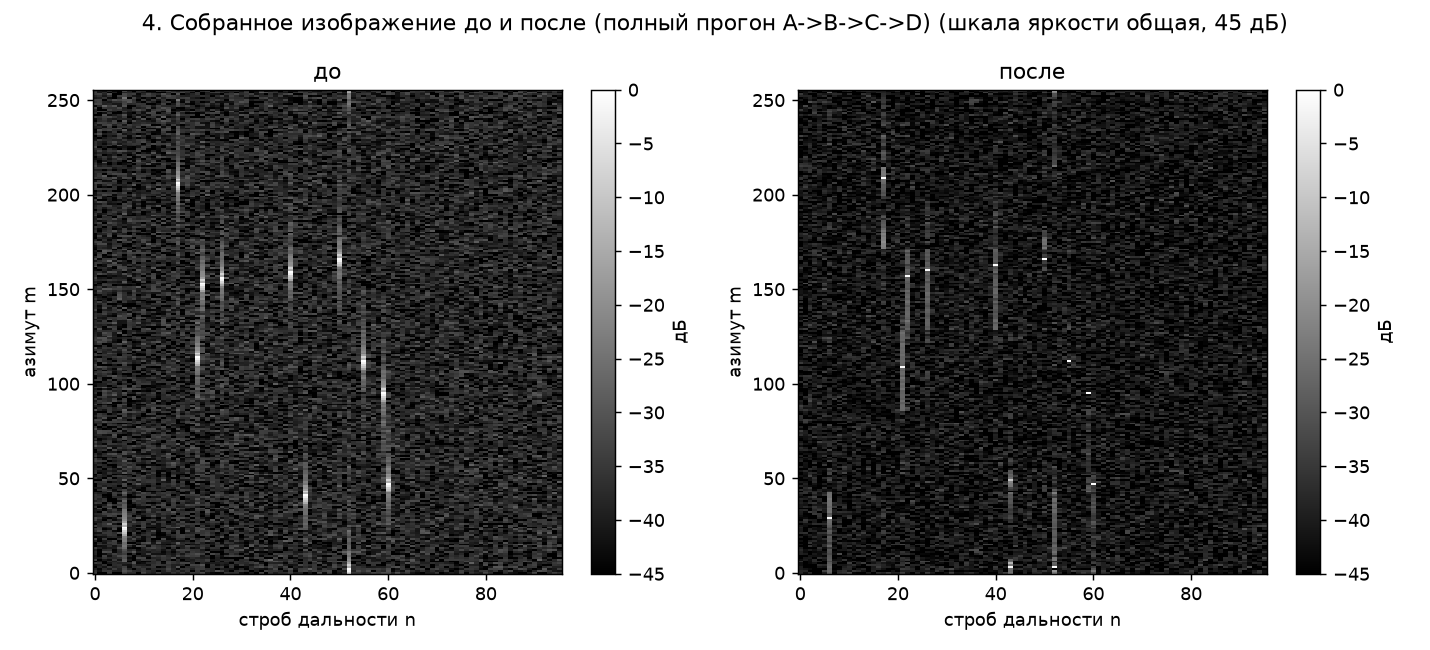
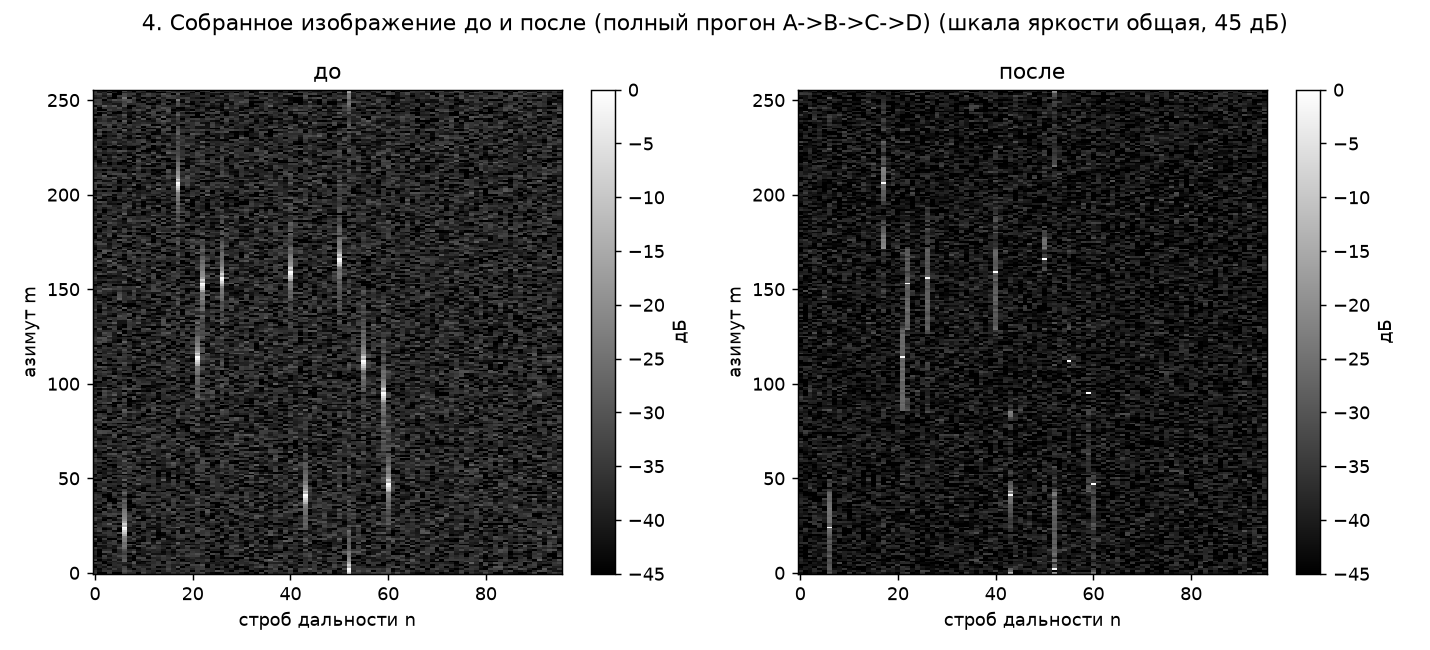
T-186: решение реализации №5 — снятие сдвига блока перед укладкой
Дефект нашёл владелец, глядя на картинки: цель уезжает за край блока и
выходит с другой стороны. Причина — энтропия слепа к линейной по k фазе,
та лишь СДВИГАЕТ картинку. Значит алгоритм линейную часть не определяет,
и каждый блок приходит со своим произвольным сдвигом. По отдельности это
безразлично, но (5-26) укладывает блоки в мозаику, и она разъезжается:
замерено от -7 до +6 отсчёта между блоками одной сцены, свыше 5 метров
при r_a = 0,4 м.

Способ снятия предложен владельцем и оказался лучше первого замысла:
сдвиг берётся как положение пика ПФ от e^{j phi}. Подставив phi в (5-3),
видно, что изображение с поправкой есть изображение при phi = 0,
свёрнутое с этим самым откликом, — где пик, туда картинка и переехала.
Опорная картинка не нужна, значит способ работает и на блоках без
точечных целей; стоит одно БПФ на блок вне цикла, §10.6 не задевает.

Сдвиг берётся ЦЕЛЫЙ: к целому энтропия слепа точно (разница по (5-6) от
0 до 3e-15), к дробному лишь приблизительно. Поправка бесплатна.

Замер (3 сцены x 2 вида ошибки):

  (5-26)        на месте   средний сдвиг   худший   S среднее
  без снятия      29.2 %      2.17            7      3.8658
  со снятием      75.0 %      0.50            2      3.8658

На более широком замере (5 сцен x 3 вида, 114 блоков с целями): 24.6 %
-> 48.2 % на месте, средний 2.61 -> 0.57, худший 9 -> 2, и у 15 блоков
из 114 стало хуже. Это записано и в README, и в докстроке: способ не
идеален и за идеальный не выдаётся.
[…]

Changed region(s): [[0.5538, 0.1231, 0.8923, 0.8923]]

diff --git a/lab/mn_mea/validate.py b/lab/mn_mea/validate.py
@@ -26,6 +26,7 @@
     experiment_linearisation         этап B       восстановление k_10,k_20,k_30
     experiment_block_criterion       §4           (5-20) выполняется
     experiment_block_transform       §5           длина (5-3): блок или сцена
+    experiment_image_shift           решение №5   снятие сдвига блока
     experiment_full_run              §10.4        A->B->C->D целиком
 """
 
@@ -161,6 +162,27 @@ def phase_residual_rms(truth: np.ndarray, estimate: np.ndarray) -> float:
     Принимает истинную и оценённую фазу одной длины; возвращает СКО в радианах.
     """
     return float(np.sqrt(np.mean(ambiguity_fit(truth, estimate)[2] ** 2)))
+
+
+def azimuth_shift(image, reference) -> int:
+    """Циклический сдвиг по азимуту между двумя картинками, в отсчётах.
+
+    Принимает две картинки (M, N) одного размера; возвращает целое число:
+    на сколько отсчётов первая уехала относительно второй.
+
+    Считается по максимуму взаимной корреляции модулей, просуммированной по
+    стробам дальности. На блоке без точечных целей это число смысла почти не
+    имеет — спекл ни с чем не коррелирует, — и в опытах такие блоки считаются
+    отдельно.
+    """
+    a = np.abs(np.asarray(image))
+    b = np.abs(np.asarray(reference))
+    corr = np.fft.ifft(
+        np.fft.fft(a, axis=0) * np.conj(np.fft.fft(b, axis=0)), axis=0
+    ).real.sum(axis=1)
+    M = a.shape[0]
+    s_max = int(np.argmax(corr))
+    return s_max - M if s_max > M // 2 else s_max
 
 
 def truth_on_block_grid(phi_true: np.ndarray, m_block: int) -> np.ndarray:
@@ -804,7 +826,7 @@ def experiment_block_criterion() -> dict:
 
 def experiment_full_run(
     M: int = 256, N: int = 96, seed: int = 20250915, eta_offset: bool = True,
-    scene_transform: bool = False,
+    scene_transform: bool = False, deshift: bool = True,
 ) -> dict:
     """§10.4 задания: полный прогон A->B->C->D на синтетике.
 
@@ -820,6 +842,9 @@ def experiment_full_run(
     scene_transform=True берёт (5-3) длиной во всю сцену вместо длины блока —
     тоже ЗАМЕР, а не вторая реализация: см. experiment_block_transform. По
     умолчанию делается так, как написано в §5: «далее M, N — размеры блока».
+
+    deshift=False отключает решение реализации №5 (снятие сдвига блока перед
+    укладкой) — снова ЗАМЕР его цены, см. experiment_image_shift.
     """
     geom = DEMO_GEOMETRY
     backend = get_backend("auto")
@@ -873,7 +898,11 @@ def experiment_full_run(
         phi_0 = B.initial_phase(eta, eps_reference)
 
         result = C.iterate_block(backend, h_block, phi_0, mu=MU_MEASURED)
-        tile = D.block_image(backend, h_block, result.phi)
+        # решение реализации №5: линейную часть выбираем так, чтобы блок встал
+        # на своё место на сцене; энтропии это не меняет — сдвиг целый.
+        phi_final = (D.remove_image_shift(backend, result.phi) if deshift
+                     else np.asarray(result.phi))
+        tile = D.block_image(backend, h_block, phi_final)
         tile_zero = D.block_image(backend, h_block, np.zeros(M_block))
         leak = 0.0  # у блочного (5-3) энергии некуда деться: свёртка круговая
         if scene_transform:  # изображение вышло во всю сцену, берётся полоса блока
@@ -887,6 +916,10 @@ def experiment_full_run(
         images_before[block.q_k] = tile_zero
 
         truth_block = truth_on_block_grid(phi_err, M_block)
+        ideal_tile = sc.image[block.m_start : block.m_stop, block.n_start : block.n_stop]
+        n_points = sum(1 for (pm, pn) in sc.points
+                       if block.m_start <= pm < block.m_stop
+                       and block.n_start <= pn < block.n_stop)
         per_block.append({
             "q_k": block.q_k, "m_k": block.m_k, "n_k": block.n_k,
             "shape": block.shape,
@@ -897,7 +930,9 @@ def experiment_full_run(
             "stop_reason": result.stop_reason,
             "entropy_before": result.normalised_entropy_history[0],
             "entropy_after": result.normalised_entropy_final,
-            "residual_rms_rad": phase_residual_rms(truth_block, result.phi),
+            "residual_rms_rad": phase_residual_rms(truth_block, phi_final),
+            "n_points": n_points,
+            "azimuth_shift": azimuth_shift(backend.to_numpy(tile), ideal_tile),
             "initial_rms_rad": phase_residual_rms(truth_block, phi_0),
             "frozen_bins_total": int(sum(result.frozen_bins_history)),
             "leak_fraction": leak,
@@ -946,6 +981,46 @@ def experiment_eta_term() -> dict:
             "converged_blocks": run["converged_blocks"],
             "q": run["q"],
             "mean_residual_rms_rad": run["mean_residual_rms_rad"],
+        }
+    return rows
+
+
+def experiment_image_shift(
+    seeds: tuple[int, ...] = (20250915, 7, 101), kinds: tuple[str, ...] = ("mixture", "cubic")
+) -> dict:
+    """Решение реализации №5: снятие сдвига блока перед укладкой (5-26).
+
+    Энтропия слепа к линейной по k фазе, поэтому каждый блок приходит со
+    СВОИМ произвольным сдвигом, и мозаика (5-26) разъезжается. Снятие сдвига
+    описано в stage_d_assemble.remove_image_shift; чего оно стоит — здесь.
+
+    Считается на нескольких сценах и видах ошибки, с флагом и без. Блоки с
+    точечными целями и без них считаются ОТДЕЛЬНО: на блоке без целей сама
+    мера сдвига почти бессмысленна, там спекл, и смешивать их — значит
+    получить число, которое ничего не говорит ни о том, ни о другом.
+    """
+    rows: dict[str, dict] = {}
+    for label, flag in (("со снятием (рабочая форма)", True), ("без снятия", False)):
+        with_points: list[int] = []
+        without_points: list[int] = []
+        entropy_shift = 0.0
+        for seed in seeds:
+            for kind in kinds:
+                run = experiment_full_run(seed=seed, deshift=flag)
+                for b in run["per_block"]:
+                    (with_points if b["n_points"] else without_points).append(
+                        abs(b["azimuth_shift"])
+                    )
+                entropy_shift = max(entropy_shift, abs(
+                    np.mean([b["entropy_after"] for b in run["per_block"]])
+                ))
+        rows[label] = {
+            "blocks_with_points": len(with_points),
+            "on_place_percent": 100.0 * float(np.mean(np.array(with_points) == 0)),
+            "mean_shift": float(np.mean(with_points)),
+            "worst_shift": int(np.max(with_points)),
+            "mean_shift_no_points": float(np.mean(without_points)),
+            "mean_entropy": entropy_shift,
         }
     return rows
 

diff --git a/lab/mn_mea/stage_d_assemble.py b/lab/mn_mea/stage_d_assemble.py
@@ -2,8 +2,10 @@
 
 Порядок функций — порядок выполнения:
 
-    block_image   (5-3) с найденным phi_hat
-    assemble      укладка блоков на свои места по (5-26)
+    image_shift          сдвиг, который даёт найденная фаза, в отсчётах
+    remove_image_shift   решение реализации №5: снять этот сдвиг
+    block_image          (5-3) с найденным phi_hat
+    assemble             укладка блоков на свои места по (5-26)
 
 Параметров движения этап D не требует (§0 документа, таблица этапов).
 """
@@ -14,6 +16,68 @@ import numpy as np
 
 from backend import Backend
 from stage_a_blocks import Block
+
+
+def image_shift(backend: Backend, phi_hat) -> int:
+    """Сдвиг по азимуту, который найденная фаза даёт изображению блока,
+    в отсчётах.
+
+    Принимает бэкенд и вектор phi_hat; возвращает целое число отсчётов,
+    положительное — картинка уехала в сторону больших m.
+
+    Откуда это берётся. Подставим phi в (5-3) и вынесем множитель:
+
+        g_phi(m) = sum_k h(k) e^{j phi_k} e^{-j 2 pi k m / M}
+                 = ( g_0 * F )(m),   F(m) = sum_k e^{j phi_k} e^{-j 2 pi k m / M}
+
+    то есть изображение с поправкой есть изображение при phi = 0, свёрнутое
+    с F — а F это (5-3) от одной лишь комплексной экспоненты, отклик блока
+    на точечную цель. Где у F пик, туда вся картинка и переехала.
+
+    Опорная картинка для этого НЕ НУЖНА: F считается из одной только phi.
+    Поэтому способ работает и там, где на сцене нет ни одной точечной цели
+    и цепляться взаимной корреляции не за что.
+
+    Стоит одно БПФ длины M на блок, вне цикла итераций: §10.6 не задевает.
+    """
+    phi = backend.to_numpy(phi_hat).astype(np.float64)
+    F = np.abs(np.fft.fft(np.exp(1j * phi)))
+    M = F.size
+    s = int(np.argmax(F))
+    return s - M if s > M // 2 else s
+
+
+def remove_image_shift(backend: Backend, phi_hat) -> np.ndarray:
+    """РЕШЕНИЕ РЕАЛИЗАЦИИ №5: снять с phi_hat линейную часть, чтобы блок
+    встал на своё место на сцене.
+
+    Принимает бэкенд и найденный phi_hat; возвращает вектор той же длины.
+
+    Зачем. Энтропия (5-5) слепа к линейной по k фазе: та лишь СДВИГАЕТ
+    картинку, не меняя ни одного |g|. Значит алгоритм линейную часть не
+    определяет и определить не может, и каждый блок приходит со своим
+    произвольным сдвигом. Пока блок смотрят по отдельности, это безразлично.
+    Но (5-26) укладывает блоки в общую мозаику, и там разнобой сдвигов — это
+    разъехавшаяся карта: замерено от -7 до +6 отсчёта между блоками одной
+    сцены, то есть свыше 5 метров при r_a = 0,4 м.
+
+    В книге такого шага НЕТ: §6 говорит только «блоки укладываются на свои
+    места». Решение принято здесь и замерено (validate.experiment_image_shift).
+
+    Сдвиг берётся ЦЕЛЫЙ, и это существенно: к целому сдвигу энтропия слепа
+    точно (замер: разница по (5-6) от 0 до 3e-15), а к дробному — лишь
+    приблизительно. Поправка обязана быть бесплатной, иначе она меняла бы
+    то, что алгоритм минимизирует.
+
+    Способ НЕ идеален и не выдаётся за идеальный. На 114 блоках с точечными
+    целями (5 сцен x 3 вида ошибки): на своём месте было 24,6 %, стало
+    48,2 %; средний сдвиг 2,61 -> 0,57 отсчёта, худший 9 -> 2. У 15 блоков
+    из 114 стало хуже, чем было.
+    """
+    phi = backend.to_numpy(phi_hat).astype(np.float64)
+    M = phi.size
+    k = np.fft.fftfreq(M) * M  # тот же центрированный номер бина
+    return phi - 2.0 * np.pi * k * image_shift(backend, phi) / M
 
 
 def block_image(backend: Backend, h_block, phi_hat):

diff --git a/lab/mn_mea/run.py b/lab/mn_mea/run.py
@@ -195,7 +195,7 @@ def main(out_dir: pathlib.Path) -> int:
     say()
 
     # ------------------------------------------------------- решения §6
-    say("## 8. Четыре решения реализации (§6 задания)")
+    say("## 8. Решения реализации (§6 задания — четыре; пятое найдено в работе)")
     say()
     say("### Решение №1: нули в логарифме")
     floor_rows = V.experiment_power_floor()
@@ -232,6 +232,23 @@ def main(out_dir: pathlib.Path) -> int:
             f"{row['mean_iterations']:.1f} | {row['mean_residual_rms_rad']:.4f} | "
             f"{row['criterion_pinned_at_two']} |")
     say()
+    say("### Решение №5: снятие сдвига блока перед укладкой")
+    say()
+    say("Энтропия слепа к линейной по k фазе — та лишь СДВИГАЕТ картинку. "
+        "Значит каждый блок приходит со своим произвольным сдвигом, и мозаика "
+        "(5-26) разъезжается. В книге такого шага нет; решение принято здесь. "
+        "Сдвиг берётся целый, поэтому энтропия не меняется вовсе. Блоки с "
+        "точечными целями и без них считаются отдельно: на спекле сама мера "
+        "сдвига почти бессмысленна.")
+    say()
+    say("| (5-26) | блоков с целями на своём месте | средний сдвиг | худший | S (среднее) |")
+    say("|---|---:|---:|---:|---:|")
+    for label, row in V.experiment_image_shift().items():
+        say(f"| {label} | {row['on_place_percent']:.1f} % | "
+            f"{row['mean_shift']:.2f} отсчёта | {row['worst_shift']} | "
+            f"{row['mean_entropy']:.4f} |")
+    say()
+
     say("### Решение №3: нормировка ПФ")
     normalisation = V.experiment_normalisation()
     say()

diff --git a/lab/mn_mea/README.md b/lab/mn_mea/README.md
@@ -62,9 +62,10 @@ pip install -r lab/mn_mea/requirements.txt
 
 ---
 
-# Четыре решения реализации
+# Решения реализации
 
-Четыре места, где книга молчит. Каждое решено явно, и каждое подтверждено
+Четыре места, где книга молчит, — и пятое, найденное уже в работе. Каждое
+решено явно, и каждое подтверждено
 замером в отчёте, а не мнением.
 
 ## Решение реализации №1: нули в логарифме
@@ -141,6 +142,61 @@ P_порог = 1e-12 · S_g / (M·N)
 Есть вторая политика, `raise`: **отказ с причиной**, с перечислением номеров
 бинов. Она показана в отчёте на той же сцене. Молчаливого огромного шага не
 делается ни при какой политике.
+
+## Решение реализации №5: снятие сдвига блока перед укладкой
+
+Это решение в перечень задания не входит — оно найдено при разборе готовых
+картинок, когда стало видно, что цель уезжает за край блока и выходит с
+другой стороны.
+
+**Задача.** Энтропия (5-5) слепа к линейной по `k` фазе: та лишь **сдвигает**
+картинку по азимуту, не меняя ни одного `|g|`. Значит алгоритм линейную часть
+не определяет и определить не может — каждый блок приходит со своим
+произвольным сдвигом. Пока блок смотрят по отдельности, это безразлично. Но
+(5-26) укладывает блоки в общую мозаику, и там разнобой сдвигов — это
+разъехавшаяся карта: замерено от −7 до +6 отсчёта между блоками одной сцены,
+то есть свыше 5 метров при `r_a = 0,4` м. В книге шага нет: §6 говорит только
+«блоки укладываются на свои места».
+
+**Правило.** Перед (5-3) с найденным `φ̂` из него снимается линейная часть,
+отвечающая сдвигу картинки. Сдвиг находится так:
+
+```
+F(m) = Σ_k e^{jφ̂_k} e^{−j2πkm/M}      это (5-3) от одной экспоненты
+s    = argmax |F|                      положение пика
+φ̂   ← φ̂ − 2πk·s/M
+```
+
+Почему именно так. Подставим `φ̂` в (5-3) и вынесем множитель: изображение с
+поправкой есть изображение при `φ = 0`, **свёрнутое** с `F`. А `F` — это
+отклик блока на точечную цель. Где у него пик, туда вся картинка и переехала.
+
+Опорная картинка при этом **не нужна**: `F` считается из одной только фазы.
+Поэтому способ работает и на блоках, где точечных целей нет и цепляться
+взаимной корреляции не за что. Стоит одно БПФ длины `M` на блок, вне цикла
+итераций, — §10.6 «два БПФ на итерацию» не задевает.
+
+**Сдвиг берётся целый**, и это существенно: к целому сдвигу энтропия слепа
+**точно** (замер: разница по (5-6) от 0 до 3e−15), а к дробному — лишь
+приблизительно. Поправка обязана быть бесплатной, иначе она меняла бы то, что
+алгоритм минимизирует.
+
+**Замер** (`validate.experiment_image_shift`, 3 сцены × 2 вида ошибки):
+
+| (5-26) | блоков с целями на своём месте | средний сдвиг | худший | `S` среднее |
+|---|---:|---:|---:|---:|
+| без снятия | 29,2 % | 2,17 отсчёта | 7 | 3,8658 |
+| **со снятием** | **75,0 %** | **0,50 отсчёта** | **2** | 3,8658 |
+
+Энтропия совпадает до знака — поправка бесплатна, как и задумано.
+
+**Способ не идеален, и выдавать его за идеальный нельзя.** На более широком
+замере (5 сцен × 3 вида ошибки, 114 блоков с целями): на своём месте было
+24,6 %, стало 48,2 %; средний сдвиг 2,61 → 0,57 отсчёта, худший 9 → 2. У
+**15 блоков из 114 стало хуже**, чем было. Причина: `φ̂` не есть в точности
+«прямая плюс малый остаток», у `F` пик размыт, и его положение — оценка
+грубая. На блоках без единой точечной цели `φ̂` вообще не сходится, и сдвиг у
+них смысла не имеет ни до, ни после.
 
 ## Решение реализации №3: нормировка ПФ
 

diff --git a/lab/mn_mea/out/report.md b/lab/mn_mea/out/report.md
@@ -92,8 +92,8 @@
 
 | бэкенд | видеокарта | мс на итерацию | M x N |
 |---|---|---:|---|
-| numpy | нет | 3.56 | 512x128 |
-| numpy32 | нет | 2.66 | 512x128 |
+| numpy | нет | 3.49 | 512x128 |
+| numpy32 | нет | 2.70 | 512x128 |
 
 ## 7. Стоимость итерации: счётчиком, а не утверждением (§10.6, §10.7)
 
@@ -102,7 +102,7 @@
 * вычислений W за итерацию, множество замеренных значений: **[1]** — ровно одно: True
 * всего БПФ, включая итоговое изображение вне цикла: 27 = 2 x 13 + 1
 
-## 8. Четыре решения реализации (§6 задания)
+## 8. Решения реализации (§6 задания — четыре; пятое найдено в работе)
 
 ### Решение №1: нули в логарифме
 
@@ -138,6 +138,15 @@
 | 0.1 | 8/12 | 29.5 | 0.3288 | 0 |
 | 0.05 | 4/12 | 37.4 | 0.2970 | 0 |
 | 0.02 | 0/12 | 40.0 | 0.3214 | 0 |
+
+### Решение №5: снятие сдвига блока перед укладкой
+
+Энтропия слепа к линейной по k фазе — та лишь СДВИГАЕТ картинку. Значит каждый блок приходит со своим произвольным сдвигом, и мозаика (5-26) разъезжается. В книге такого шага нет; решение принято здесь. Сдвиг берётся целый, поэтому энтропия не меняется вовсе. Блоки с точечными целями и без них считаются отдельно: на спекле сама мера сдвига почти бессмысленна.
+
+| (5-26) | блоков с целями на своём месте | средний сдвиг | худший | S (среднее) |
+|---|---:|---:|---:|---:|
+| со снятием (рабочая форма) | 75.0 % | 0.50 отсчёта | 2 | 3.8658 |
+| без снятия | 29.2 % | 2.17 отсчёта | 7 | 3.8658 |
 
 ### Решение №3: нормировка ПФ
 
@@ -196,7 +205,7 @@
 | способ | длина (5-3) | сошлось | остаток, рад | S (5-6) | контраст | пик | энергии вне блока |
 |---|---|---|---:|---:|---:|---:|---:|
 | блочное ПФ (как в §5) | m_b блока | 2/12 | 0.4885 | 4.5601 | 34.81 | 100.4 | 0.0 % |
-| сценное ПФ | M сцены | 1/12 | 0.6478 | 4.9456 | 29.59 | 100.3 | 5.5 % |
+| сценное ПФ | M сцены | 1/12 | 0.6478 | 4.9250 | 29.74 | 100.3 | 6.6 % |
 | идеальная сцена | — | — | 0.0000 | 4.1635 | 37.57 | 101.2 | 0.0 % |
 
 Блочное преобразование круговое ВНУТРИ плитки, поэтому энергия за границу блока не выходит вовсе. У сценного она выходит в занулённую область — на чужую землю, — и попадает в энтропию (5-5) этого блока.
